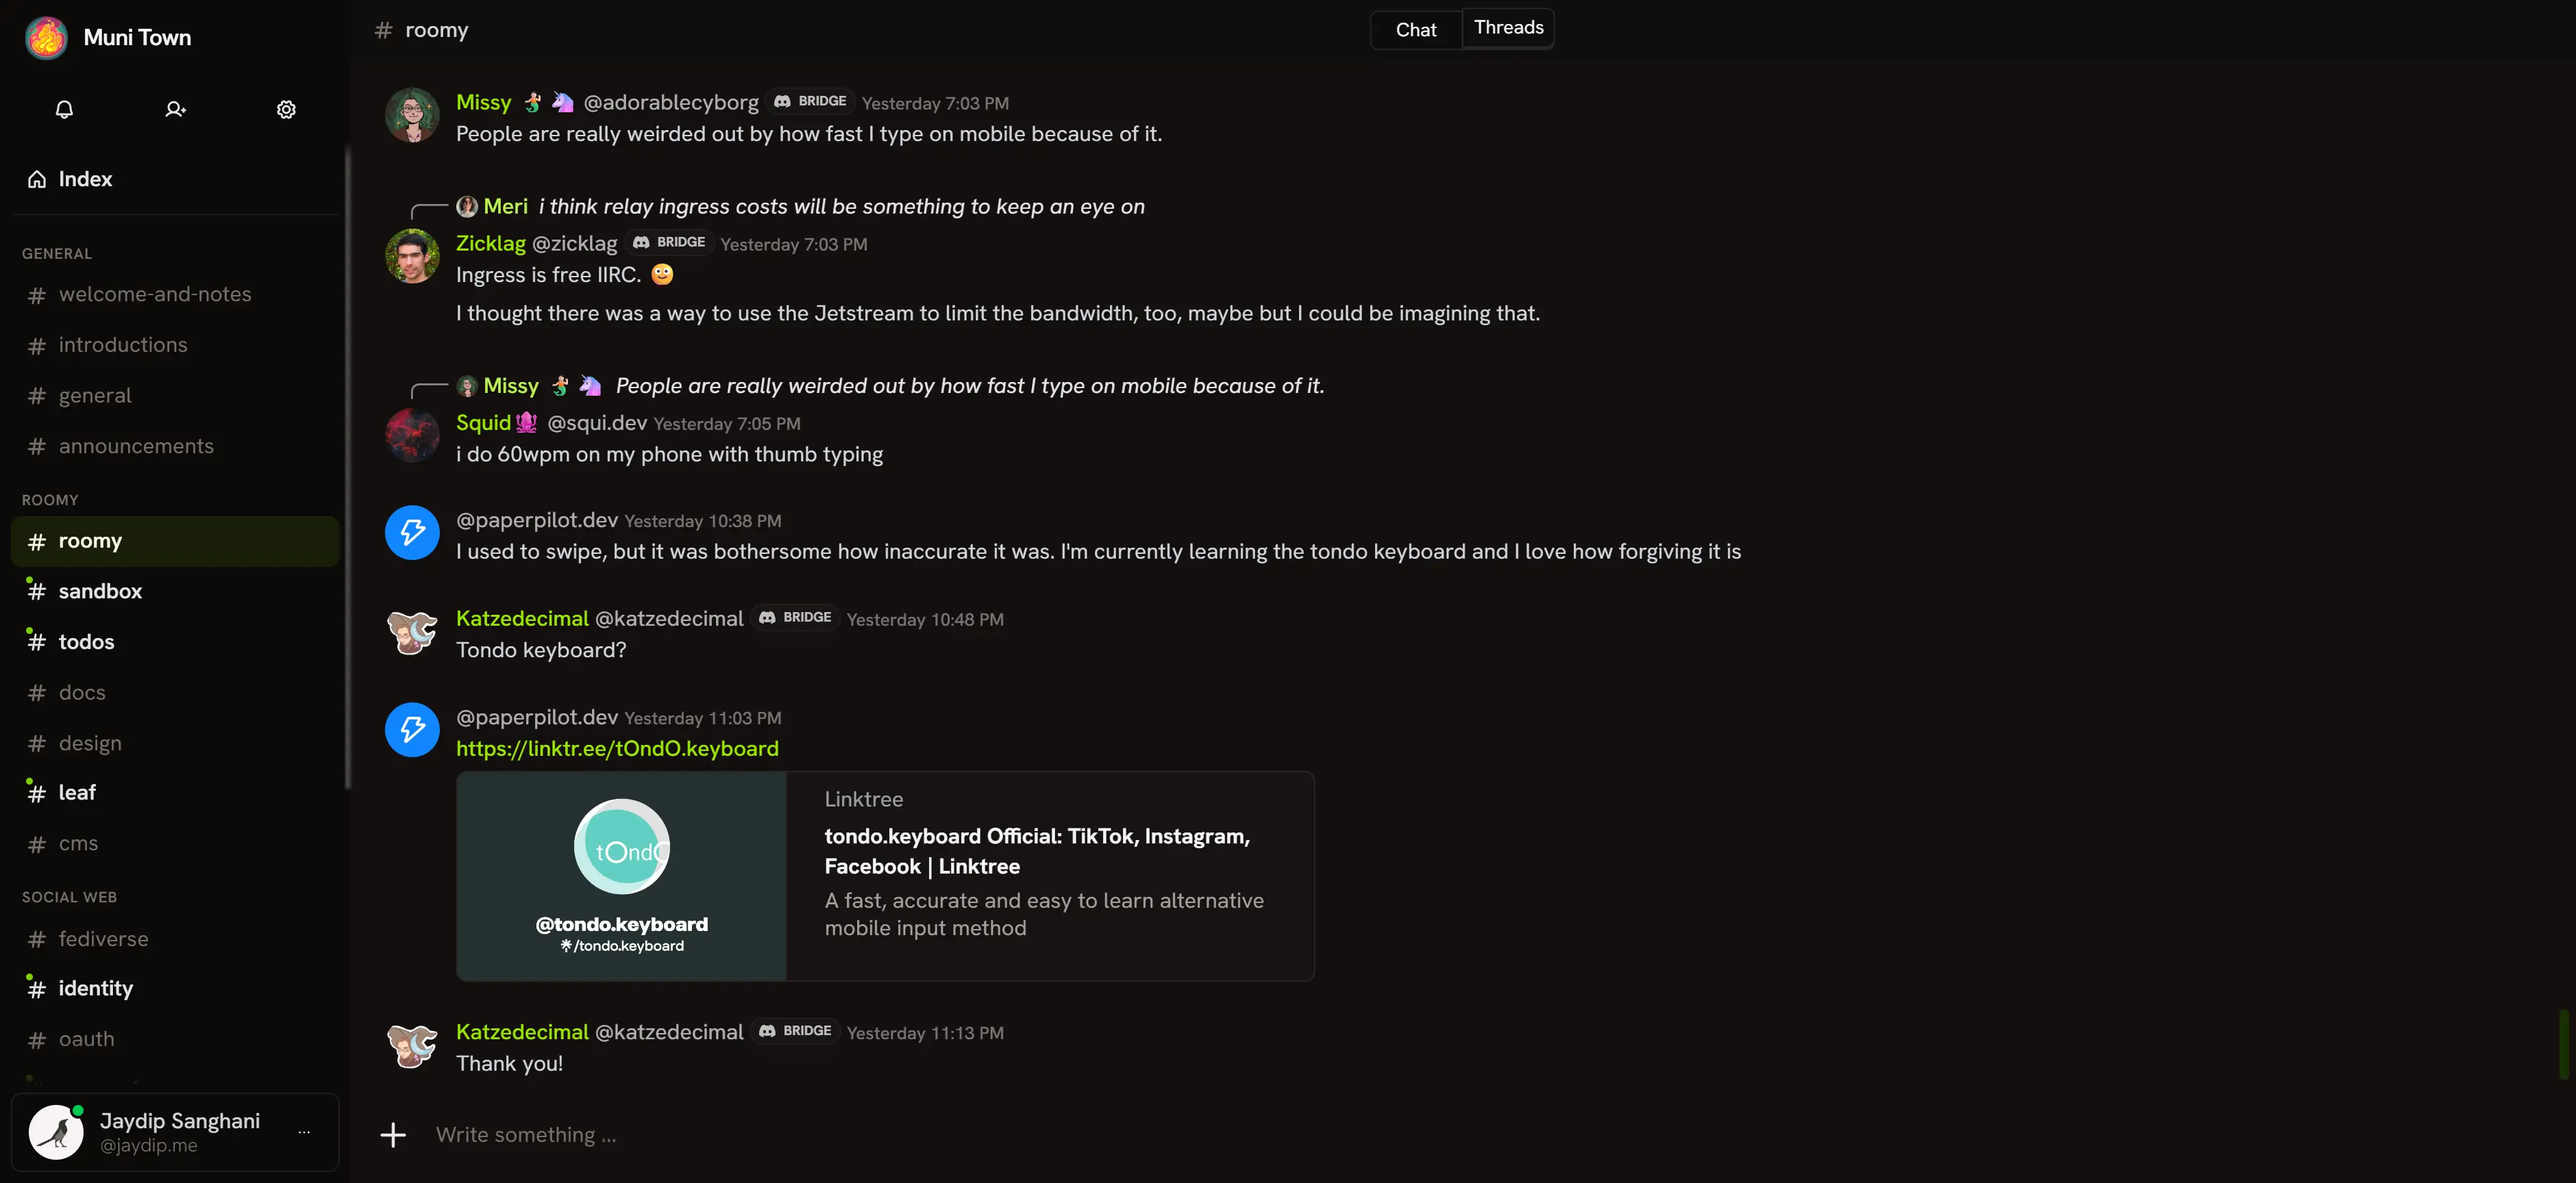
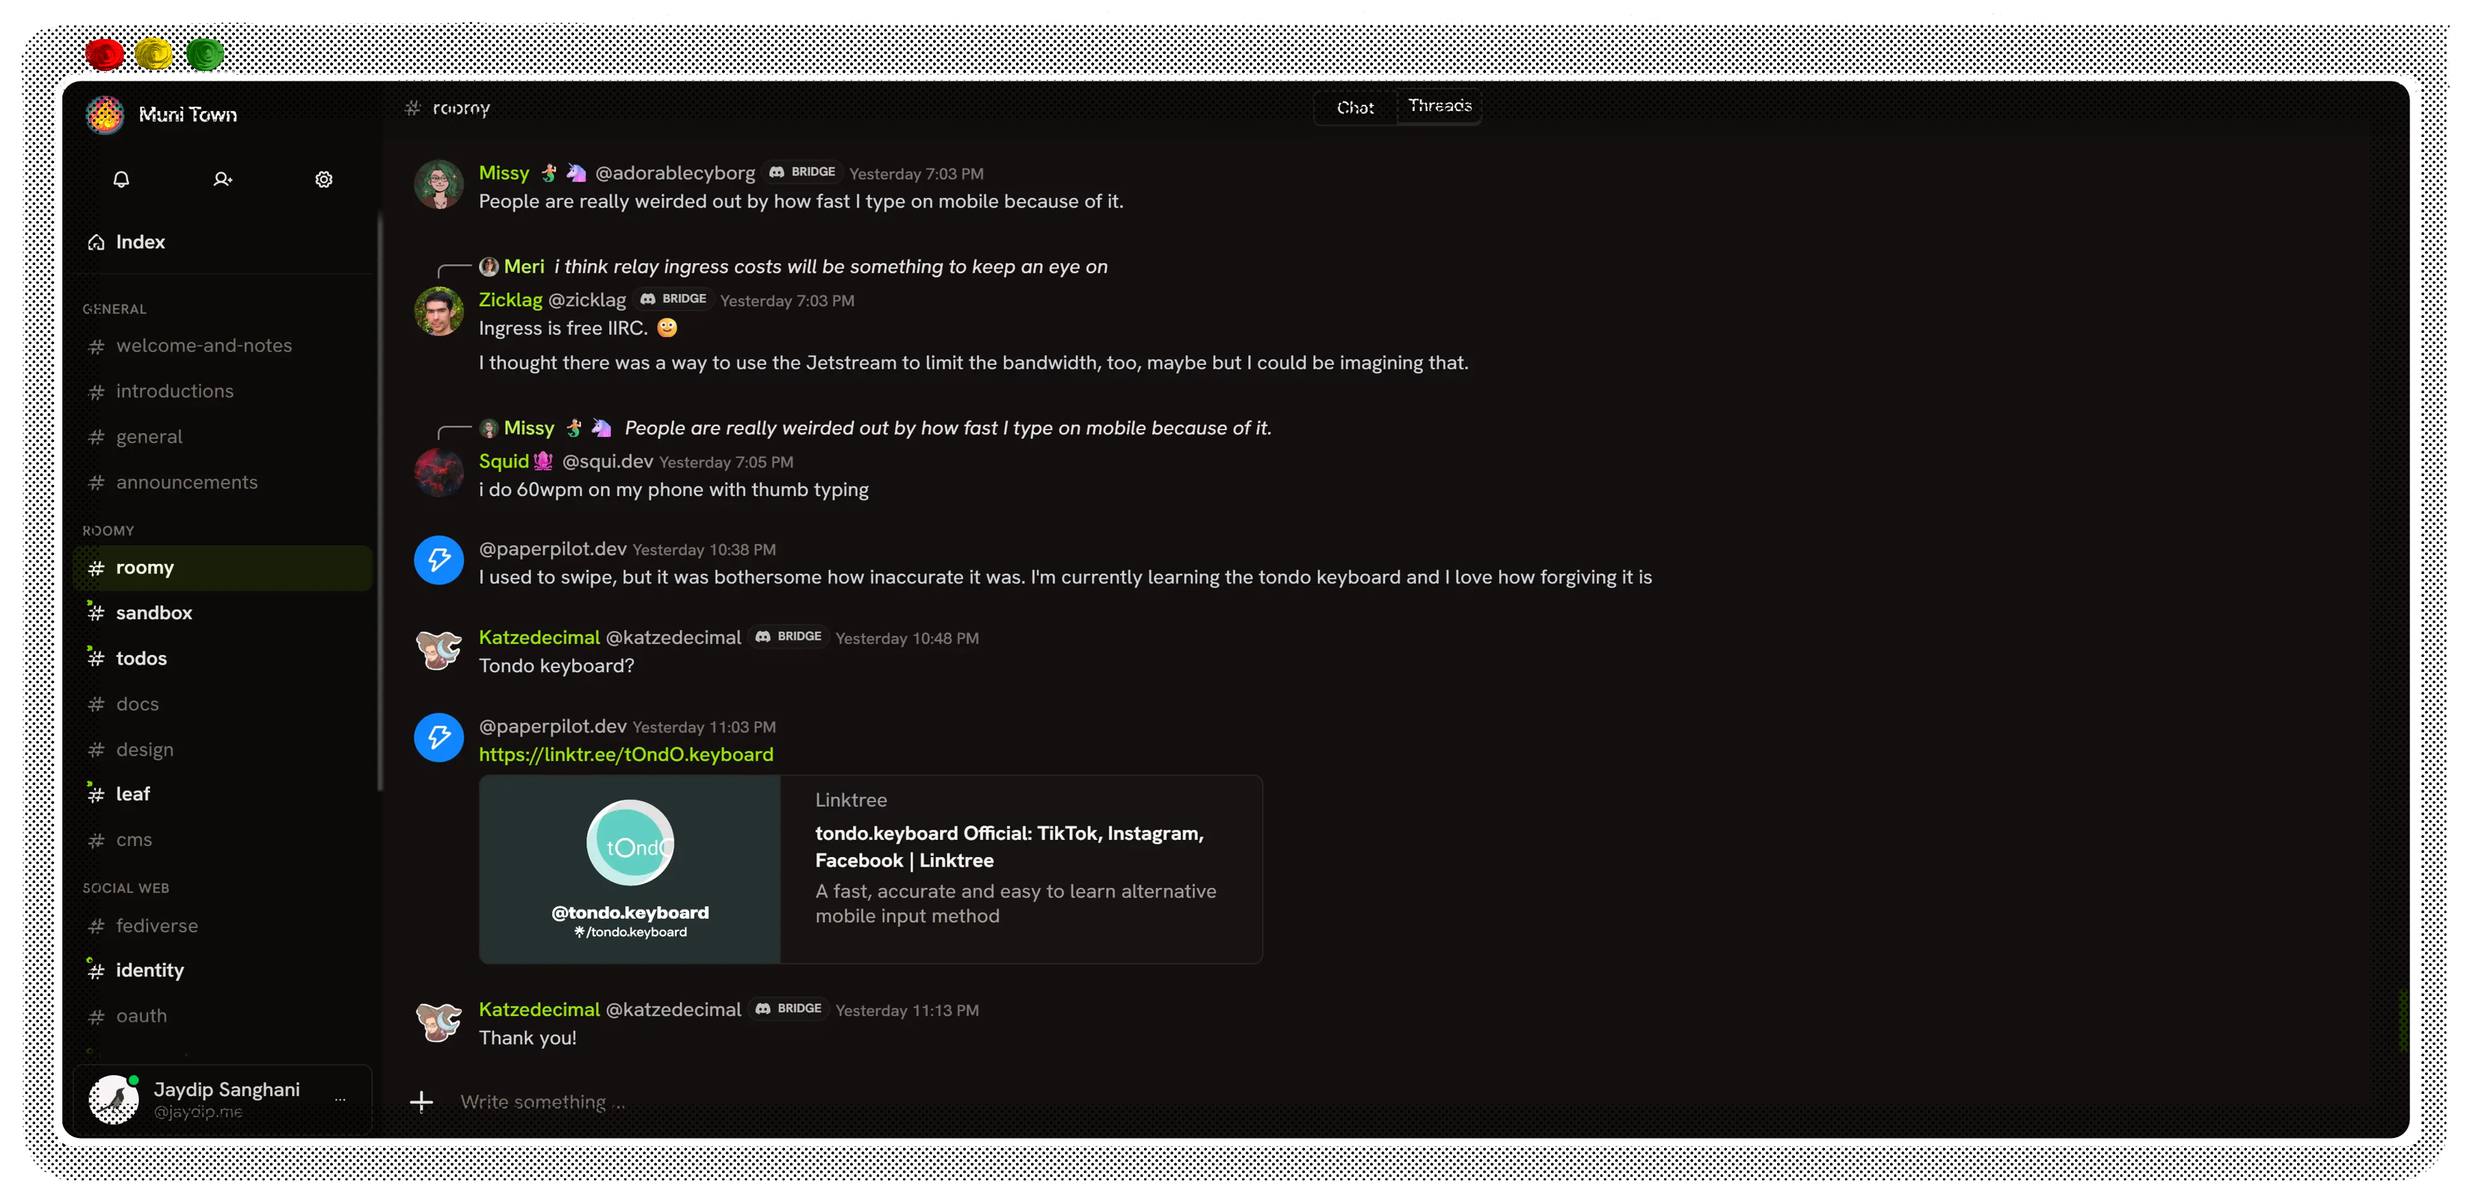
paint style for image frame

Changed region(s): [[0.0, 0.0, 1.0, 1.0]]

diff --git a/src/lib/components/landing/Intro.svelte b/src/lib/components/landing/Intro.svelte
@@ -2,7 +2,7 @@
 	import Image from '$lib/components/ui/Image.svelte';
 
 	import space_channel from '$lib/assets/space_channel.png?enhanced';
-	import ss from '$lib/assets/ss_frame.webp?enhanced';
+	import ss from '$lib/assets/ss_framed.png?enhanced';
 </script>
 
 <div class="grid-layout mt-10">

diff --git a/src/lib/styles/layout.css b/src/lib/styles/layout.css
@@ -127,7 +127,7 @@
 		figcaption {
 			font-family: var(--font-sans);
 			font-size: var(--text-step--1);
-			padding: 0 0.25rem;
+			padding: 0.25rem 0;
 			text-align: center;
 			text-wrap: pretty;
 		}
